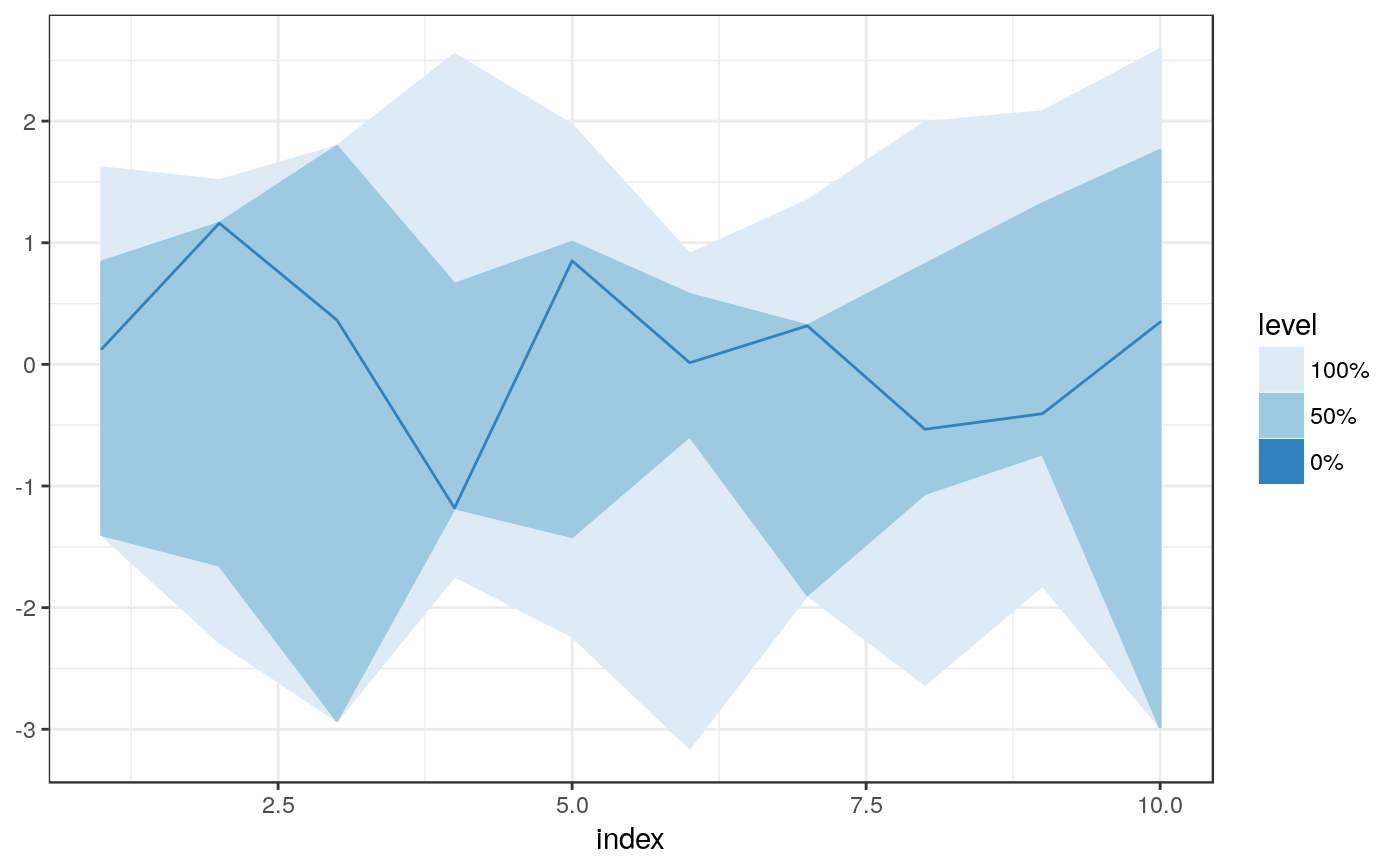
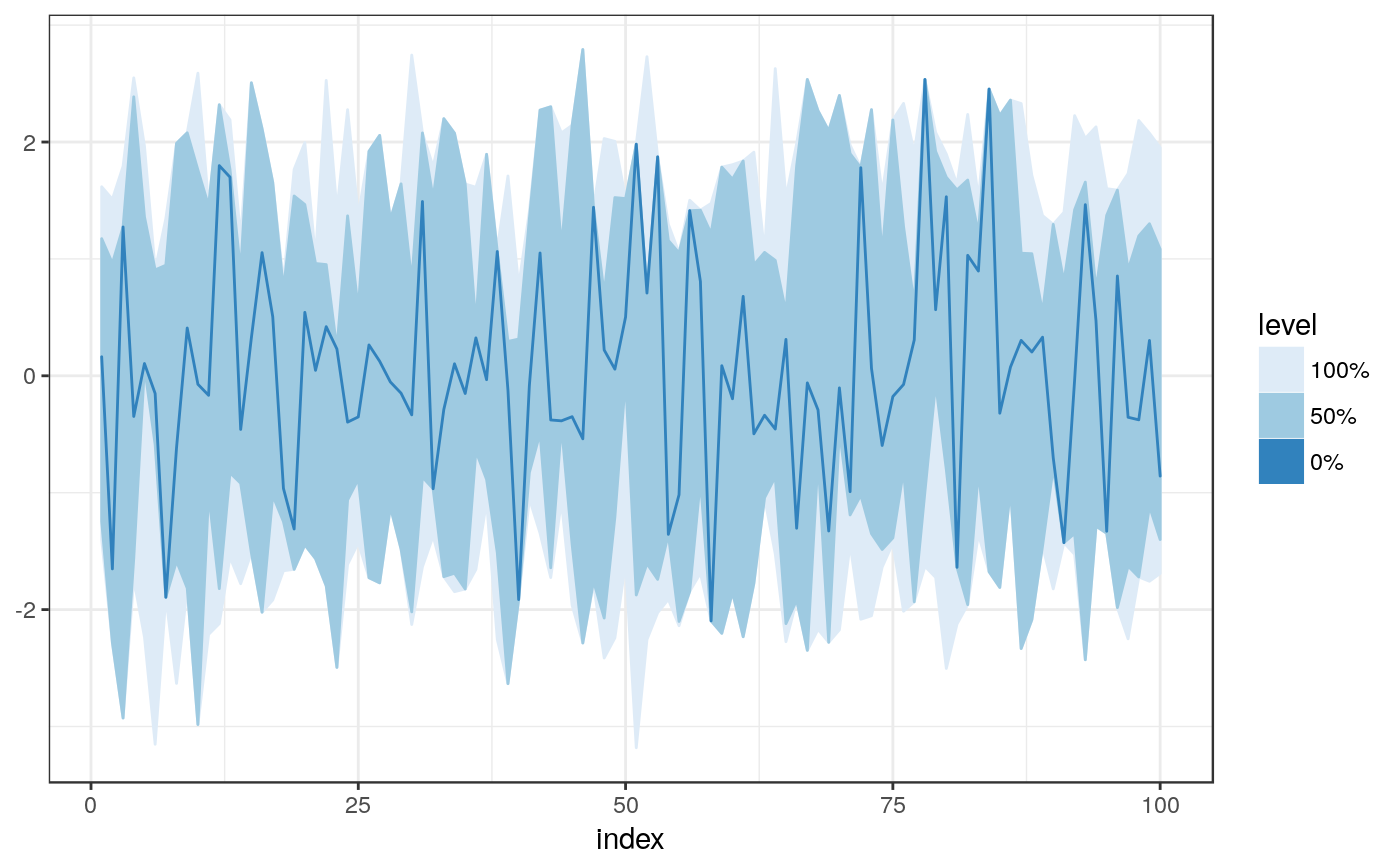
http to https in readme

diff --git a/docs/index.html b/docs/index.html
@@ -76,7 +76,7 @@
 <div id="cran-release-version" class="section level4">
 <h4 class="hasAnchor">
 <a href="#cran-release-version" class="anchor"></a>CRAN release version</h4>
-<p><a href="http://cran.rstudio.com/web/packages/DepthProc/index.html"><img src="http://www.r-pkg.org/badges/version/DepthProc" alt="CRAN version"></a> <a href="http://cran.rstudio.com/package=DepthProc"><img src="http://cranlogs.r-pkg.org/badges/DepthProc" alt="Downloads"></a> <a href="http://cran.rstudio.com/web/packages/DepthProc/index.html"><img src="http://cranlogs.r-pkg.org/badges/grand-total/DepthProc"></a> <a href="https://travis-ci.org/zzawadz/DepthProc"><img src="https://travis-ci.org/zzawadz/DepthProc.svg?branch=master" alt="Build Status"></a> <a href="https://ci.appveyor.com/project/zzawadz/DepthProc"><img src="https://ci.appveyor.com/api/projects/status/github/zzawadz/DepthProc?branch=master&amp;svg=true" alt="AppVeyor Build Status"></a> <a href="https://codecov.io/github/zzawadz/DepthProc?branch=master"><img src="https://img.shields.io/codecov/c/github/zzawadz/DepthProc/master.svg" alt="Coverage Status"></a></p>
+<p><a href="https://cran.rstudio.com/web/packages/DepthProc/index.html"><img src="https://www.r-pkg.org/badges/version/DepthProc" alt="CRAN version"></a> <a href="https://cran.rstudio.com/package=DepthProc"><img src="https://cranlogs.r-pkg.org/badges/DepthProc" alt="Downloads"></a> <a href="https://cran.rstudio.com/web/packages/DepthProc/index.html"><img src="https://cranlogs.r-pkg.org/badges/grand-total/DepthProc"></a> <a href="https://travis-ci.org/zzawadz/DepthProc"><img src="https://travis-ci.org/zzawadz/DepthProc.svg?branch=master" alt="Build Status"></a> <a href="https://ci.appveyor.com/project/zzawadz/DepthProc"><img src="https://ci.appveyor.com/api/projects/status/github/zzawadz/DepthProc?branch=master&amp;svg=true" alt="AppVeyor Build Status"></a> <a href="https://codecov.io/github/zzawadz/DepthProc?branch=master"><img src="https://img.shields.io/codecov/c/github/zzawadz/DepthProc/master.svg" alt="Coverage Status"></a></p>
 </div>
 </div>
 <div id="installation" class="section level2">
@@ -104,15 +104,15 @@ x &lt;-<span class="st"> </span><span class="kw">mvrnorm</span>(<span class="dv"
 <span class="co"># Default - utilize as many threads as possible</span>
 <span class="kw">system.time</span>(<span class="kw"><a href="reference/depth.html">depth</a></span>(x, x, <span class="dt">method =</span> <span class="st">"LP"</span>))</code></pre></div>
 <pre><code>##    user  system elapsed 
-##   0.372   0.000   0.104</code></pre>
+##   0.327   0.001   0.046</code></pre>
 <div class="sourceCode"><pre class="sourceCode r"><code class="sourceCode r"><span class="co"># Only single thread - 4 times slower:</span>
 <span class="kw">system.time</span>(<span class="kw"><a href="reference/depth.html">depth</a></span>(x, x, <span class="dt">method =</span> <span class="st">"LP"</span>, <span class="dt">threads =</span> <span class="dv">1</span>))</code></pre></div>
 <pre><code>##    user  system elapsed 
-##   0.215   0.000   0.216</code></pre>
+##   0.183   0.000   0.183</code></pre>
 <div class="sourceCode"><pre class="sourceCode r"><code class="sourceCode r"><span class="co"># Two threads - 2 times slower:</span>
 <span class="kw">system.time</span>(<span class="kw"><a href="reference/depth.html">depth</a></span>(x, x, <span class="dt">method =</span> <span class="st">"LP"</span>, <span class="dt">threads =</span> <span class="dv">2</span>))</code></pre></div>
 <pre><code>##    user  system elapsed 
-##   0.217   0.000   0.112</code></pre>
+##   0.167   0.000   0.085</code></pre>
 </div>
 </div>
 <div id="available-depth-functions" class="section level2">
@@ -166,7 +166,7 @@ y &lt;-<span class="st"> </span><span class="kw"><a href="http://www.rdocumentat
 <div id="functional-boxplot" class="section level3">
 <h3 class="hasAnchor">
 <a href="#functional-boxplot" class="anchor"></a>Functional BoxPlot</h3>
-<div class="sourceCode"><pre class="sourceCode r"><code class="sourceCode r">x &lt;-<span class="st"> </span><span class="kw">matrix</span>(<span class="kw">rnorm</span>(<span class="dv">200</span>), <span class="dt">ncol =</span> <span class="dv">10</span>)
+<div class="sourceCode"><pre class="sourceCode r"><code class="sourceCode r">x &lt;-<span class="st"> </span><span class="kw">matrix</span>(<span class="kw">rnorm</span>(<span class="dv">2000</span>), <span class="dt">ncol =</span> <span class="dv">100</span>)
 <span class="kw"><a href="reference/fncBoxPlot.html">fncBoxPlot</a></span>(x, <span class="dt">bands =</span> <span class="kw">c</span>(<span class="dv">0</span>, <span class="fl">0.5</span>, <span class="dv">1</span>), <span class="dt">method =</span> <span class="st">"FM"</span>)</code></pre></div>
 <p><img src="index_files/figure-html/fncBox-1.png" width="700"></p>
 </div>

diff --git a/README.md b/README.md
@@ -10,9 +10,9 @@ available R package and its description.
 #### CRAN release version
 
 [![CRAN
-version](http://www.r-pkg.org/badges/version/DepthProc)](http://cran.rstudio.com/web/packages/DepthProc/index.html)
-[![Downloads](http://cranlogs.r-pkg.org/badges/DepthProc)](http://cran.rstudio.com/package=DepthProc)
-[![](http://cranlogs.r-pkg.org/badges/grand-total/DepthProc)](http://cran.rstudio.com/web/packages/DepthProc/index.html)
+version](https://www.r-pkg.org/badges/version/DepthProc)](https://cran.rstudio.com/web/packages/DepthProc/index.html)
+[![Downloads](https://cranlogs.r-pkg.org/badges/DepthProc)](https://cran.rstudio.com/package=DepthProc)
+[![](https://cranlogs.r-pkg.org/badges/grand-total/DepthProc)](https://cran.rstudio.com/web/packages/DepthProc/index.html)
 [![Build
 Status](https://travis-ci.org/zzawadz/DepthProc.svg?branch=master)](https://travis-ci.org/zzawadz/DepthProc)
 [![AppVeyor Build
